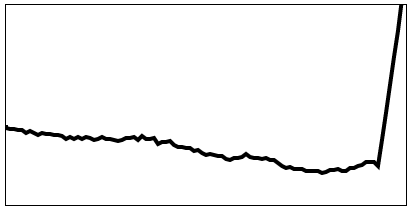
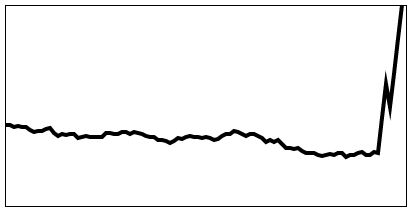
added jog in temps

Changed region(s): [[0.0, 0.0, 0.9879, 0.8246], [0.0, 0.9384, 0.9879, 0.9953]]

diff --git a/rednoise.html b/rednoise.html
@@ -29,6 +29,8 @@ for (;;) {
     // Test if it matches our temperature record
     if (random_walk[array_size-1] < 0.8  ||  random_walk[array_size-7] > 0.1)
         continue;
+    if (random_walk[array_size-4] > random_walk[array_size-5])
+        continue;
 
     // If it matches, add to our averages
     for (i in random_walk) {
